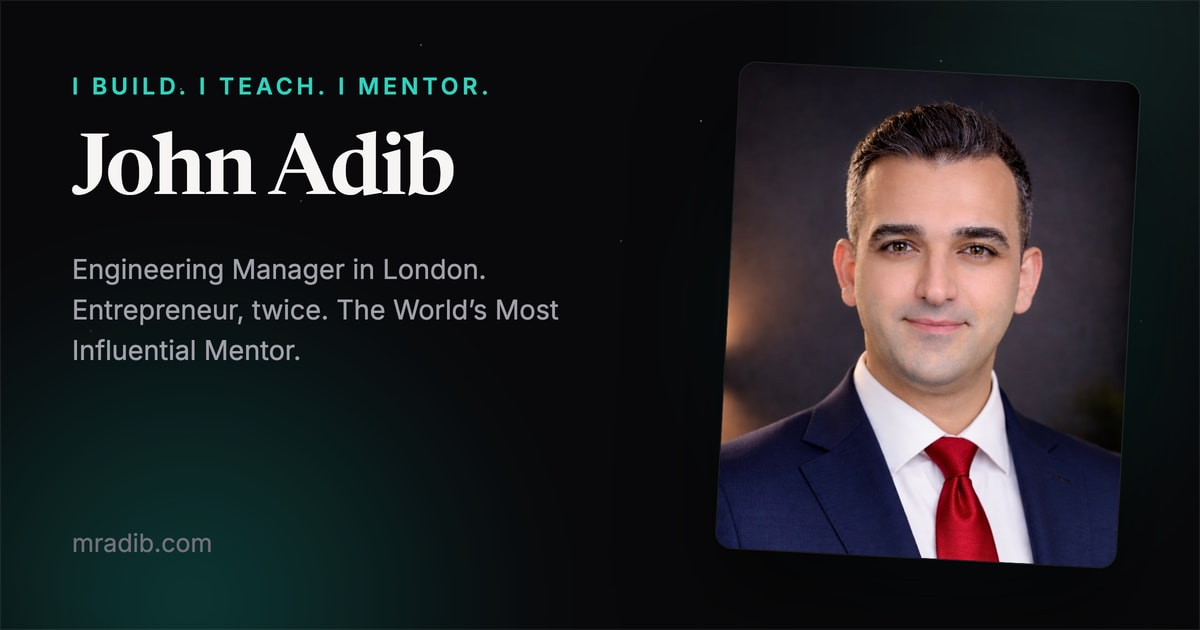
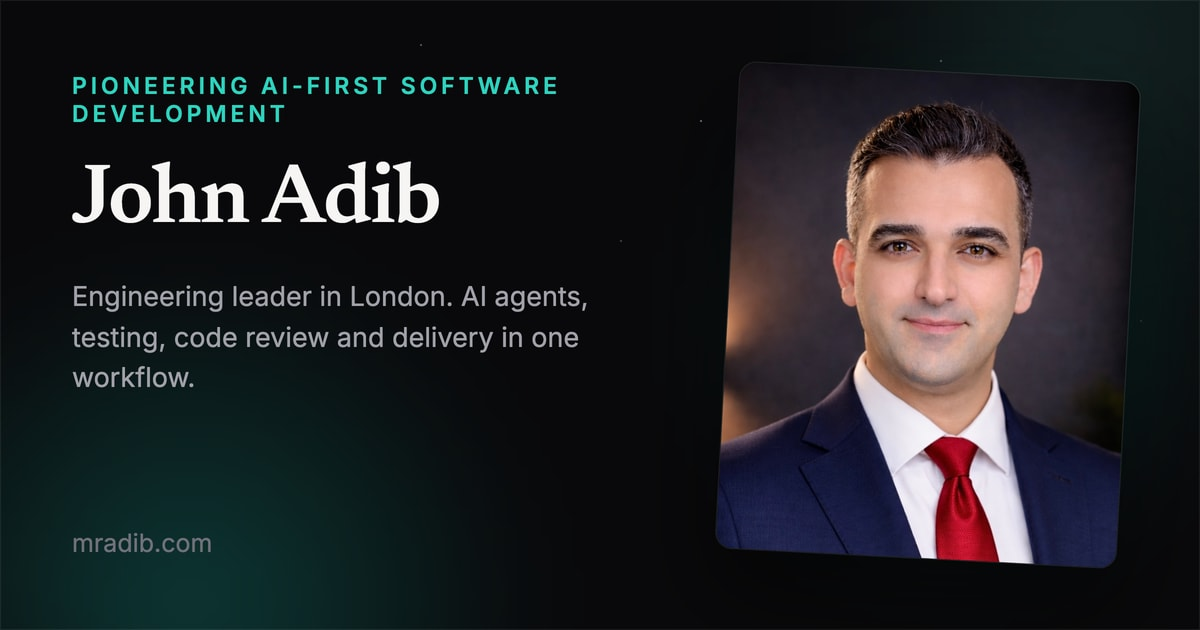
feat: lead with AI-first development positioning

Changed region(s): [[0.0617, 0.3921, 0.4933, 0.6333], [0.0617, 0.1206, 0.4625, 0.3619]]

diff --git a/src/data/profile.ts b/src/data/profile.ts
@@ -1,3 +1,4 @@
+import { aiPositioning } from "@/data/ai-positioning";
 import { urlSocial } from "@/lib/constants/url-social";
 import { yearsSince } from "@/lib/datetime/years-since";
 
@@ -57,14 +58,12 @@ export const profile: IProfile = {
 	email: "Mr.JohnAdib@Gmail.com",
 	jobTitle: "Engineering Manager",
 	company: { name: "Zapp", url: "https://www.justzapp.com" },
-	titleTag: "John Adib - Engineering Manager, Founder & Mentor | MrAdib",
+	titleTag: `John Adib - ${aiPositioning.focusTitle} | MrAdib`,
 	image: "/img/john-adib-london-avatar.jpg",
-	oneLiner:
-		"Engineering Manager and 2× startup co-founder, pioneering AI-first development in London.",
-	shortBio:
-		"John Adib (MrAdib): Engineering Manager at Zapp in London, 2× startup co-founder, World's Most Influential Mentor (ADPList), speaker, AI-first pioneer.",
-	bio50: `John Adib (MrAdib) is an Engineering Manager at Zapp in London and a two-time startup co-founder. Named ADPList's World's Most Influential Mentor (2024) and #1 Mentor in Europe (2024), he has spent ${experienceYears}+ years building products and teams, and now pioneers AI-first development, mentoring engineers through 600+ sessions.`,
-	bio150: `John Adib is an Engineering Manager at Zapp in London, where he leads teams pioneering AI-first development: AI reviewers on every pull request, releases accelerated from monthly to weekly, and AI agents woven through the whole workflow. Over ${experienceYears}+ years he has co-founded two startups: Sarshomar, which raised $1M and reached one million users in its first month, and Jibres, an e-commerce platform serving 1,200+ businesses that won a national award at the IR Web Festival 2022. A mentor at heart, John has run 600+ sessions on ADPList, where he was named the World's Most Influential Mentor of 2024 and #1 Mentor in Europe. He holds a UK Global Talent endorsement from Tech Nation, speaks at conferences including AI Coding Summit and React Advanced London, contributes to open source, previously taught 2,000+ students, and is a proud father of two daughters.`,
+	oneLiner: `Engineering leader in London ${aiPositioning.focus}.`,
+	shortBio: `John Adib, engineering leader in London ${aiPositioning.focus}. ${aiPositioning.activities}.`,
+	bio50: `John Adib is an engineering leader in London ${aiPositioning.focus}. He brings ${aiPositioning.activities} into one continuous workflow. A two-time founder and Engineering Manager at Zapp, he was named ADPList's World's Most Influential Mentor and has led 600+ mentoring sessions.`,
+	bio150: `${aiPositioning.summary} At Zapp, he is an Engineering Manager whose production practice includes AI reviewers on pull requests and a move from monthly to weekly app releases. Across ${experienceYears}+ years building products and teams, he has co-founded two startups, raised $1M, reached one million users in the first month and served 1,200+ businesses. He has taught 2,000+ students and led 600+ mentoring sessions on ADPList, where he was named the World's Most Influential Mentor of 2024 and #1 Mentor in Europe. John holds a UK Global Talent endorsement from Tech Nation, speaks at conferences including AI Coding Summit and React Advanced London, and contributes to open source. His published case study and talks explain the architecture, guardrails and verification behind his AI-first approach.`,
 	location: { city: "London", country: "United Kingdom", countryCode: "GB" },
 	alternateNames: ["MrAdib", "جان ادیب"],
 	knowsAbout: [

diff --git a/src/components/ai-evidence-links.tsx b/src/components/ai-evidence-links.tsx
@@ -1,0 +1,71 @@
+import clsx from "clsx";
+import Link from "next/link";
+import { Card } from "@/components/card";
+import { aiEvidence } from "@/data/ai-evidence";
+import { formatDate } from "@/lib/datetime/format-date";
+
+export function AiEvidenceLinks({ inverse = false }: { inverse?: boolean }) {
+	return (
+		<div className="mt-8">
+			<p
+				className={clsx(
+					"text-xs font-semibold tracking-wider uppercase",
+					inverse ? "text-accent-400" : "text-accent-700 dark:text-accent-400",
+				)}
+			>
+				Published work
+			</p>
+			<ul className="mt-3 grid gap-3 lg:grid-cols-3">
+				{aiEvidence.map((evidence) => (
+					<Card
+						as="li"
+						key={evidence.path}
+						className={clsx(
+							"rounded-2xl ring-1 transition hover:-translate-y-0.5 motion-reduce:transform-none",
+							inverse
+								? "bg-white/5 ring-white/10 hover:bg-white/10"
+								: "bg-white/60 ring-zinc-900/10 hover:bg-white dark:bg-zinc-800/40 dark:ring-zinc-700/50 dark:hover:bg-zinc-800/70",
+						)}
+					>
+						<Link
+							href={evidence.path}
+							className="block h-full w-full rounded-2xl p-5 focus-visible:outline-2 focus-visible:outline-offset-4 focus-visible:outline-accent-500"
+						>
+							<span
+								className={clsx(
+									"block text-xs leading-5",
+									inverse
+										? "text-zinc-400"
+										: "text-zinc-500 dark:text-zinc-400",
+								)}
+							>
+								{evidence.kind}
+								<time dateTime={evidence.date} className="mt-1 block">
+									{formatDate({ date: evidence.date })}
+								</time>
+							</span>
+							<span
+								className={clsx(
+									"mt-3 block text-base leading-6 font-semibold",
+									inverse ? "text-white" : "text-zinc-800 dark:text-zinc-100",
+								)}
+							>
+								{evidence.title}
+							</span>
+							<span
+								className={clsx(
+									"mt-2 block text-sm leading-6",
+									inverse
+										? "text-zinc-300"
+										: "text-zinc-600 dark:text-zinc-400",
+								)}
+							>
+								{evidence.summary}
+							</span>
+						</Link>
+					</Card>
+				))}
+			</ul>
+		</div>
+	);
+}

diff --git a/src/data/intro-bio.ts b/src/data/intro-bio.ts
@@ -1,17 +1,16 @@
+import { aiPositioning } from "@/data/ai-positioning";
 import { homepageUrl } from "@/lib/constants/url";
 
 /*
   The canonical shareable self-intro (decisions.md, 2026-07-19). The body
   starts at the role in lowercase so it takes two openers: the H1 already
-  carries the name, so the on-page paragraph opens "A ...", while the
-  clipboard copy opens "I'm John Adib, a ..." plus a link tail so the
+  carries the name, so the on-page paragraph opens "An ...", while the
+  clipboard copy opens "I'm John Adib, an ..." plus a link tail so the
   pasted handout stands alone. Numbers here are frozen historical facts,
   so they read as prose; the exact tallies live in the sections and /about.
 */
-const introBioBody = `two-time founder and engineering leader in London. $1M raised, a million users in the first month, 1,200+ businesses served. I've taught thousands and mentored engineers around the world. ADPList named me The World's Most Influential Mentor; the UK endorsed me as exceptional talent. Today I build AI-first, changing how teams work, not just how fast they ship.`;
+export const introBio = `An ${aiPositioning.introBioBody}`;
 
-export const introBio = `A ${introBioBody}`;
-
-export const introBioClipboard = `I'm John Adib, a ${introBioBody}
+export const introBioClipboard = `I'm John Adib, an ${aiPositioning.introBioBody}
 
 More: ${homepageUrl}`;

diff --git a/src/app/(en)/about/_sections/about-hero.tsx b/src/app/(en)/about/_sections/about-hero.tsx
@@ -1,5 +1,7 @@
+import { AiEvidenceLinks } from "@/components/ai-evidence-links";
 import { StatBand } from "@/components/stat-band";
 import { TiltCard } from "@/components/tilt-card/tilt-card";
+import { aiPositioning } from "@/data/ai-positioning";
 import { mentoringStats } from "@/data/mentoring-stats";
 import { experienceYears } from "@/data/profile";
 import { teachingStats, videoViewsCompact } from "@/data/teaching-stats";
@@ -38,6 +40,9 @@ export function AboutHero() {
 					</span>
 				</h1>
 				<p className="reveal-rise reveal-delay-4 mt-6 text-lg text-zinc-600 dark:text-zinc-400">
+					{aiPositioning.summary}
+				</p>
+				<p className="reveal-rise reveal-delay-4 mt-4 text-lg text-zinc-600 dark:text-zinc-400">
 					{experienceYears}+ years in software, and I am still building every
 					single day. This is the long version: it starts with a keyboard my
 					father brought home, and runs through two co-founded startups,
@@ -71,6 +76,7 @@ export function AboutHero() {
 					stats={stats}
 					gridClass="grid-cols-2 sm:grid-cols-3 lg:grid-cols-5 max-sm:[&>*:last-child]:col-span-2"
 				/>
+				<AiEvidenceLinks />
 			</div>
 		</div>
 	);

diff --git a/src/data/ai-evidence.ts b/src/data/ai-evidence.ts
@@ -1,0 +1,39 @@
+import { articleAiAdoption } from "@/data/articles/ai-adoption";
+import { getTalk } from "@/data/talks/get-talk";
+
+interface IAiEvidence {
+	kind: string;
+	title: string;
+	summary: string;
+	date: string;
+	path: string;
+	recordingUrl?: string;
+}
+
+function publishedTalk(slug: string): IAiEvidence {
+	const talk = getTalk(slug);
+	if (!talk.path || !talk.date || talk.status === "upcoming") {
+		throw new Error(`AI evidence needs a published talk: ${slug}`);
+	}
+	return {
+		kind: talk.event ? `Talk · ${talk.event}` : "Talk",
+		title: talk.title,
+		summary: talk.summary,
+		date: talk.date,
+		path: talk.path,
+		recordingUrl: talk.recordingUrl,
+	};
+}
+
+// Titles, dates and URLs come from the published sources, not a second ledger.
+export const aiEvidence: IAiEvidence[] = [
+	{
+		kind: "Case study",
+		title: articleAiAdoption.title,
+		summary: articleAiAdoption.description,
+		date: articleAiAdoption.publishDate,
+		path: articleAiAdoption.pagePath,
+	},
+	publishedTalk("compound-effect-guardrails"),
+	publishedTalk("ai-first-architecture"),
+];

diff --git a/src/data/og/og-cards-en.ts b/src/data/og/og-cards-en.ts
@@ -1,3 +1,4 @@
+import { aiPositioning } from "@/data/ai-positioning";
 import type { IOgCard } from "./og-card-interface";
 
 const portrait = { src: "/img/john-adib-hero.jpg", fit: "cover" } as const;
@@ -17,20 +18,19 @@ export const ogCardsEn: IOgCard[] = [
 		slug: "home",
 		route: "/",
 		lang: "en",
-		eyebrow: "I build. I teach. I mentor.",
+		eyebrow: aiPositioning.focusTitle,
 		headline: "John Adib",
-		proof:
-			"Engineering Manager in London. Entrepreneur, twice. The World's Most Influential Mentor.",
+		proof: `Engineering leader in London. ${aiPositioning.activities} in one workflow.`,
 		artwork: portrait,
 	},
 	{
 		slug: "about",
 		route: "/about",
 		lang: "en",
-		eyebrow: "The Story",
-		headline: "From a first computer to the world stage.",
+		eyebrow: "John Adib / The story",
+		headline: aiPositioning.focusTitle,
 		proof:
-			"Entrepreneur, twice. The World's Most Influential Mentor. UK Global Talent.",
+			"Engineering leader in London. Two-time founder. 600+ mentoring sessions.",
 		artwork: portrait,
 	},
 	{

diff --git a/src/lib/llms/llms-sections-extra.ts b/src/lib/llms/llms-sections-extra.ts
@@ -1,3 +1,4 @@
+import { aiEvidence } from "@/data/ai-evidence";
 import { adplistBadgeTimeline, awards } from "@/data/awards";
 import { fundraisingKit } from "@/data/guides/fundraising-kit";
 import { hubRoute } from "@/data/guides/hub-route";
@@ -11,6 +12,20 @@ export function sectionEvidence(): string {
 		`- ADPList100 2026, The World's Most Influential Mentors: ${urlAdpList100}`,
 		"- 2024 ADPList Wrapped (#1 Mentor in Europe): https://blog.adplist.org/post/2024-adplist-wrapped-top-mentors-trends-and-topics",
 		`- Podcast episode on Spotify: ${urlPodcastSpotify}`,
+	].join("\n");
+}
+
+export function sectionAiDevelopment(): string {
+	return [
+		"## AI-first software development",
+		"",
+		profile.oneLiner,
+		...aiEvidence.flatMap((evidence) => [
+			`- ${evidence.kind}: [${evidence.title}](${homepageUrl}${evidence.path}), ${evidence.date}. ${evidence.summary}`,
+			...(evidence.recordingUrl
+				? [`  Recording and transcript: ${evidence.recordingUrl}`]
+				: []),
+		]),
 	].join("\n");
 }
 

diff --git a/src/components/home/home-now.tsx b/src/components/home/home-now.tsx
@@ -1,9 +1,6 @@
-import Link from "next/link";
+import { AiEvidenceLinks } from "@/components/ai-evidence-links";
 import { Container } from "@/components/container";
 import { Reveal } from "@/components/reveal/reveal";
-import { getTalk } from "@/data/talks/get-talk";
-
-const talk = getTalk("ai-first-architecture");
 
 function Strong({ children }: { children: React.ReactNode }) {
 	return <strong className="font-semibold text-white">{children}</strong>;
@@ -38,12 +35,7 @@ export function HomeNow() {
 							I took the thesis to the <Strong>AI Coding Summit</Strong>, 800+
 							engineers, and to <Strong>React Advanced London</Strong> at Figma.
 						</p>
-						<Link
-							href={talk.path ?? "/talks"}
-							className="mt-8 inline-block text-sm font-medium text-accent-400 transition hover:text-accent-300"
-						>
-							The thesis: AI-First Architecture →
-						</Link>
+						<AiEvidenceLinks inverse />
 					</div>
 				</div>
 			</Reveal>

diff --git a/src/data/ai-positioning.ts b/src/data/ai-positioning.ts
@@ -1,0 +1,13 @@
+const focus = "pioneering AI-first software development";
+const activities = "AI agents, testing, code review and delivery";
+const workflow = `bringing ${activities} into one continuous workflow`;
+
+/** Shared identity copy, backed by the AI adoption case study and talks. */
+export const aiPositioning = {
+	focus,
+	focusTitle: focus.charAt(0).toUpperCase() + focus.slice(1),
+	activities,
+	workflow,
+	summary: `John Adib is an engineering leader in London ${focus}, ${workflow}.`,
+	introBioBody: `engineering leader in London ${focus}. I bring ${activities} into one continuous workflow. Two-time founder: $1M raised, a million users in the first month, 1,200+ businesses served. I've taught thousands and mentored engineers around the world. ADPList named me The World's Most Influential Mentor; the UK endorsed me as exceptional talent.`,
+};

diff --git a/src/app/(en)/about/page.tsx b/src/app/(en)/about/page.tsx
@@ -1,6 +1,7 @@
 import type { Metadata } from "next";
 import { Container } from "@/components/container";
 import { ProfilePageJsonLd } from "@/components/json-ld/profile-page-json-ld";
+import { profile } from "@/data/profile";
 import { ogMetadata } from "@/lib/og-metadata";
 import { AboutAiFirst } from "./_sections/about-ai-first";
 import { AboutChildhood } from "./_sections/about-childhood";
@@ -23,8 +24,7 @@ import { AboutWindows } from "./_sections/about-windows";
 
 export const metadata: Metadata = {
 	title: "About",
-	description:
-		"The story of John Adib: from building his first computer as a kid to 2× startup co-founder and the World's Most Influential Mentor, building AI-first in London.",
+	description: profile.shortBio,
 	...ogMetadata("/about"),
 };
 

diff --git a/src/app/(en)/page.tsx b/src/app/(en)/page.tsx
@@ -23,14 +23,14 @@ export default function Home() {
 				<style>{".reveal-on-scroll{opacity:1;transform:none;}"}</style>
 			</noscript>
 			<HomeHero />
+			<section id="now" className="scroll-mt-24">
+				<HomeNow />
+			</section>
 			<section id="rise" className="scroll-mt-24">
 				<HomeRise />
 			</section>
 			<section id="recognition" className="scroll-mt-24">
 				<HomeRecognition />
-			</section>
-			<section id="now" className="scroll-mt-24">
-				<HomeNow />
 			</section>
 			<section id="invitation" className="scroll-mt-24">
 				<HomeInvitation />

diff --git a/src/lib/llms/build-llms-full-txt.ts b/src/lib/llms/build-llms-full-txt.ts
@@ -5,6 +5,7 @@ import {
 	sectionProfiles,
 } from "@/lib/llms/llms-sections";
 import {
+	sectionAiDevelopment,
 	sectionAiTools,
 	sectionAllRecognition,
 	sectionEvidence,
@@ -16,6 +17,7 @@ import { sectionSiteStructure } from "@/lib/llms/llms-sections-routes";
 export function buildLlmsFullTxt(): string {
 	return `${[
 		sectionIdentity(),
+		sectionAiDevelopment(),
 		sectionFullBiography(),
 		sectionKeyFacts(),
 		sectionAllRecognition(),
